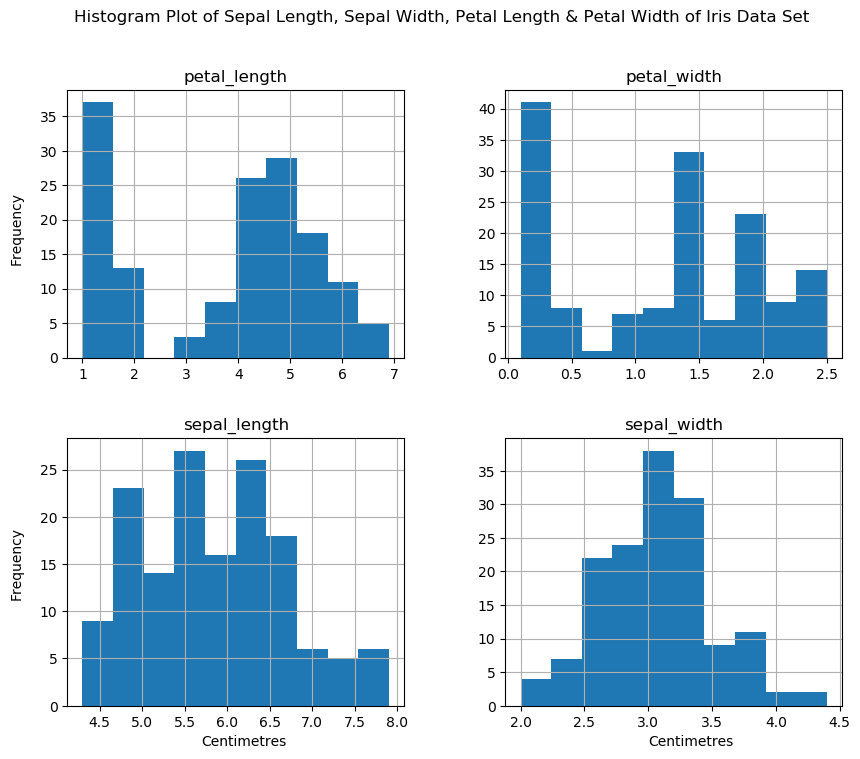
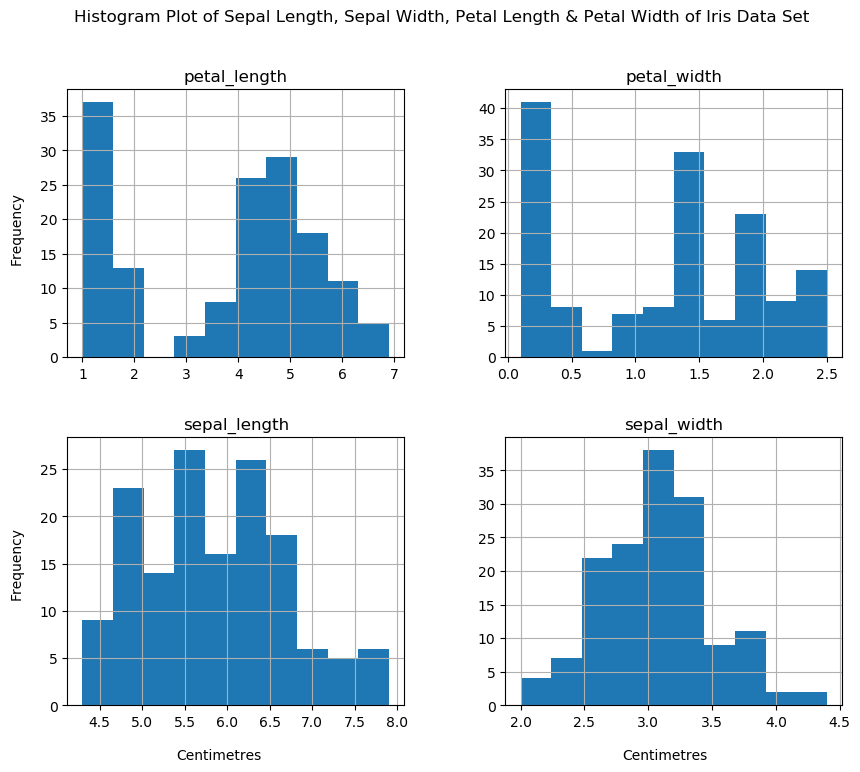
Histogram Plot
Update histogram plot with centred labels

diff --git a/data_analysis.py b/data_analysis.py
@@ -64,8 +64,8 @@ hist = iris_data.hist(column=['sepal_length', 'sepal_width',
                                'petal_length', 'petal_width'], figsize=(10, 8))
 # plt.title('Histogram Plot of Sepal Length, Sepal Width, Petal Length & Petal Width of Iris Data Set')
 plt.suptitle('Histogram Plot of Sepal Length, Sepal Width, Petal Length & Petal Width of Iris Data Set')
-plt.text(-0.5, -6, 'Centimetres')
-plt.text(3, -6, 'Centimetres')
+plt.text(-0.7, -8, 'Centimetres')
+plt.text(2.8, -8, 'Centimetres')
 plt.text(-2, 75, 'Frequency', rotation='vertical')
 plt.text(-2, 25, 'Frequency', rotation='vertical')
 plt.savefig('./images/histogram_plot.png', bbox_inches='tight')
